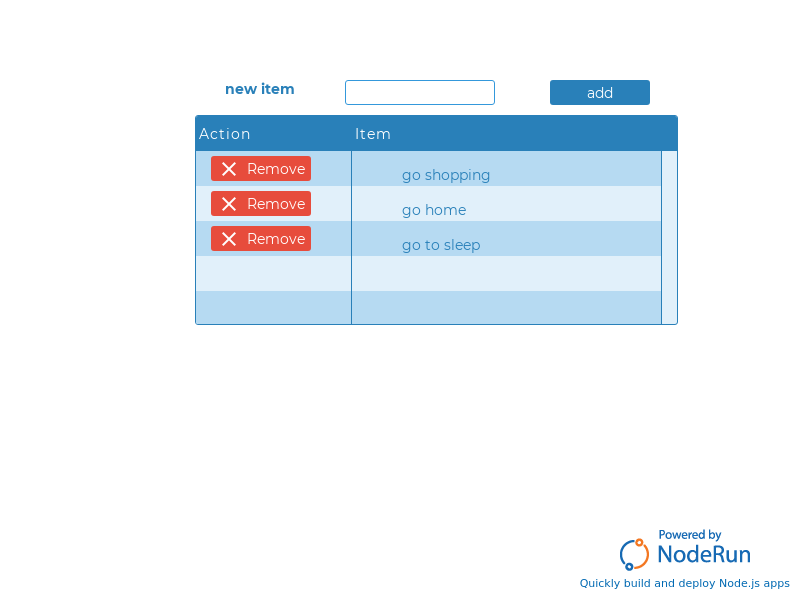
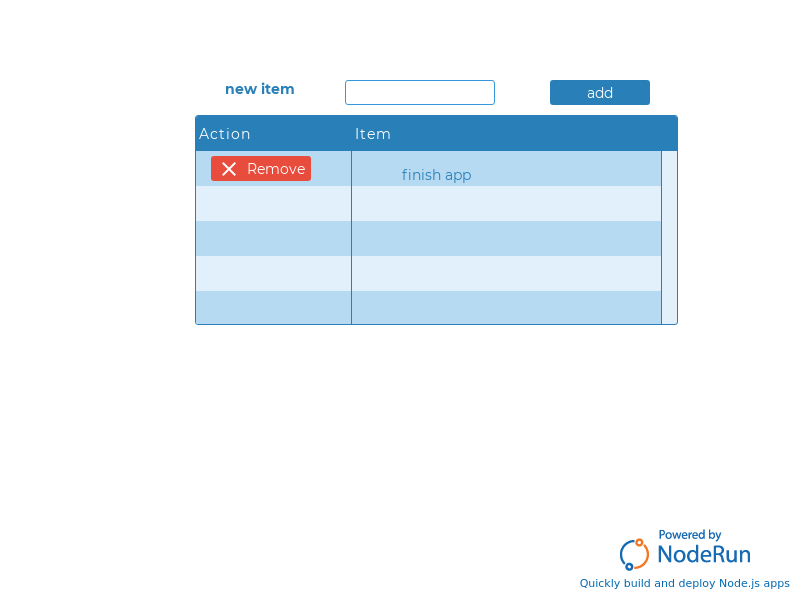
2nd commit

diff --git a/todo.js b/todo.js
@@ -10,7 +10,7 @@ display.grid.replaceRecords(list);
 while(true){
 display.todoScreen.execute();
   if (add) addItem(display.grid, newItem);
-  removeItems(entry => !entry.remove);
+  removeItems(display.grid);
   }
 
 }
